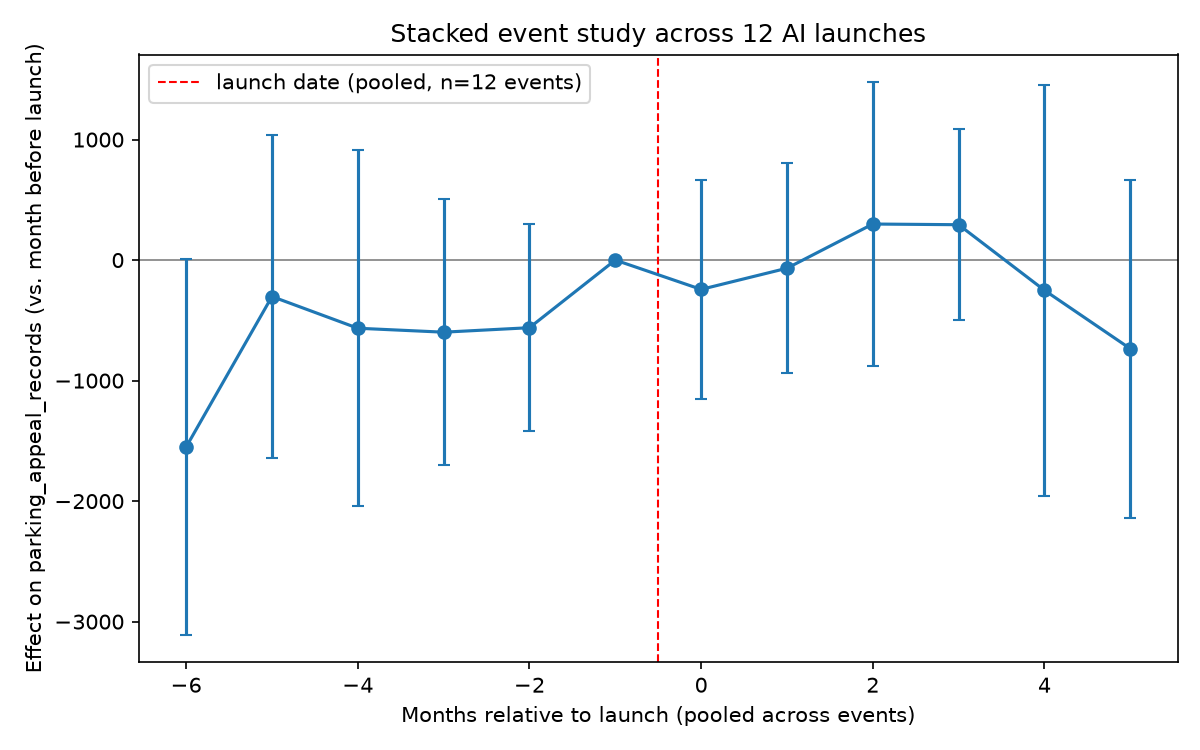
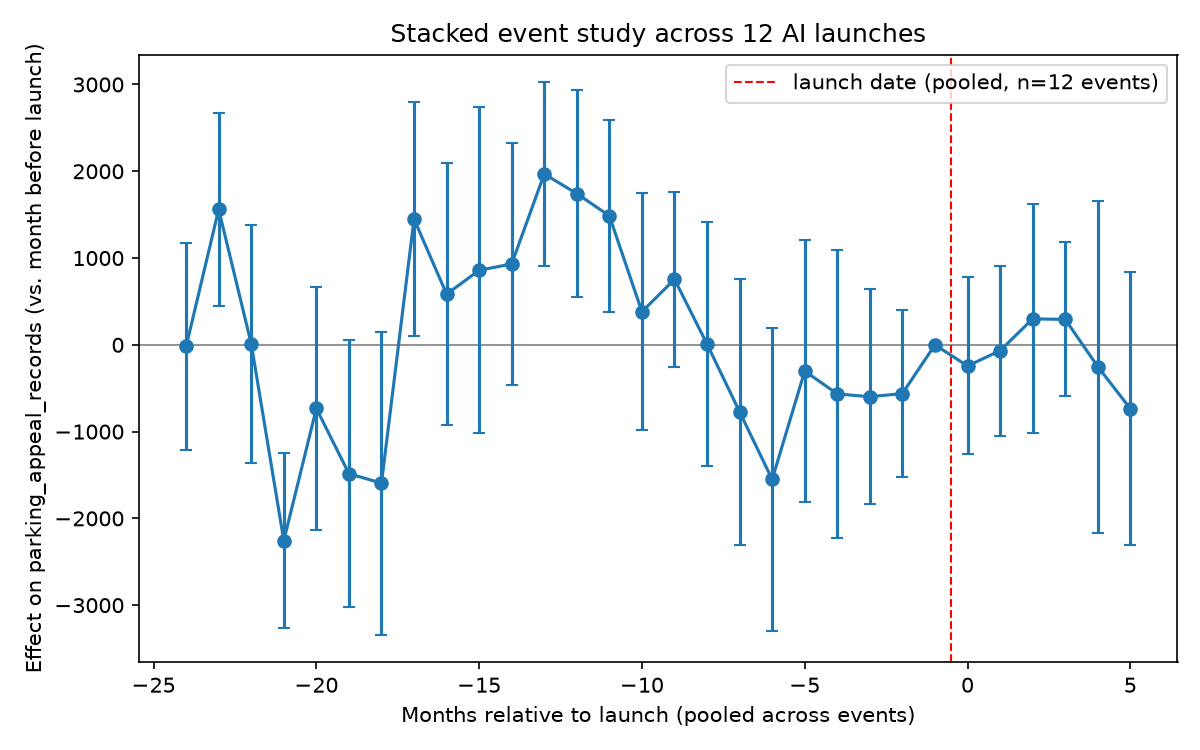
Widen the parking-appeal stacked event study to a +/-24 month window
Investigated extending NYC parking-ticket data further back than 2020
(per request), and found it wouldn't help even if fetched: with no event
before ChatGPT's launch, its pre-period is bounded only by the window
size, and even a 24-36 month window only reaches back to late
2020/2021 -- already fully covered by the existing 2020-present fetch.
Separately, live re-fetch attempts (old years and, as a control, a
recent year already on disk) all timed out against NYC's unauthenticated
Socrata endpoint right now, confirming a temporary throttle unrelated to
how far back the query reaches.

Reran the pooled/stacked event study with --window 24 instead of 6 using
the data already on hand, to give the calendar-month fixed effect more
variety to work with. Conclusion is unchanged (no significant post-launch
coefficient), but the wider window surfaces some noisy pre-period swings
worth documenting so they aren't mistaken for a pre-trend.

Claude-Session: https://claude.ai/code/session_011hBf7bSosARDUQm7dgpL33

diff --git a/README.md b/README.md
@@ -252,6 +252,23 @@ python -m src.analysis.event_study --event chatgpt_launch --outcome parking_appe
 python -m src.analysis.stacked_event_study --outcome small_claims_filings --window 6
 python -m src.analysis.stacked_event_study --outcome small_claims_dispositions --window 6
 
+# parking_appeal_records uses a wider +/-24 month window rather than the
+# +/-6 used elsewhere: the parking-ticket data is NYC-only, so the pooled
+# regression's calendar-month fixed effect benefits from every extra
+# calendar month of variety it can get. This does NOT require fetching
+# data further back than 2020: with no event before it, ChatGPT's launch
+# (Nov 2022) sets the earliest usable month at launch-minus-window, and
+# even a 24-36 month window only reaches back to late 2020/2021, which
+# `fetch_socrata.py`'s existing 2020-present fetch already covers in
+# full -- pre-2020 data literally can't enter this regression unless the
+# window exceeds ~34 months, at which point it stops being a "local"
+# launch comparison. (A live attempt to fetch further back anyway hit a
+# different, unrelated wall: NYC's unauthenticated Socrata endpoint was
+# timing out on every query when tried, including years already
+# successfully fetched before -- a temporary throttle/slowdown, not
+# something a wider date range would have fixed.)
+python -m src.analysis.stacked_event_study --outcome parking_appeal_records --window 24
+
 # Stacked/pooled event study across all 12 launches at once, instead of
 # one noisy regression per launch -- see below for why this is the more
 # reliable version.
@@ -335,7 +352,16 @@ python -m src.analysis.stacked_event_study --outcome ui_pct_within_21_days --con
   consistent direction. The individual-event regressions are degenerate
   (see above) rather than merely noisy, and the individual fuzzy-RD
   estimates have standard errors several times larger than their point
-  estimates — uninformative, not evidence of an effect either way.
+  estimates — uninformative, not evidence of an effect either way. Widening
+  this outcome's window to +/-24 months (see above) doesn't change that
+  conclusion — every post-launch coefficient (event_time 0 through 5) is
+  still insignificant (p>0.35) — but it does surface several significant
+  *pre*-launch swings (event_time -23, -21, -17, -13, -12, -11) with no
+  consistent sign or shape. Read these as noise rather than a real
+  pre-trend: this is still single-state (NY-only) data on HC1 robust SEs
+  with ~30 event-time bins now being tested and a modest 88 total
+  observations, so a handful of "significant" pre-period bins by chance is
+  expected, not a sign something real is happening 2 years before a launch.
 - **Texas small-claims filings/dispositions**: essentially a null in the
   pooled analysis too. `small_claims_filings` has one significant
   coefficient right at launch month (event_time=0: -463, p=0.021) but
